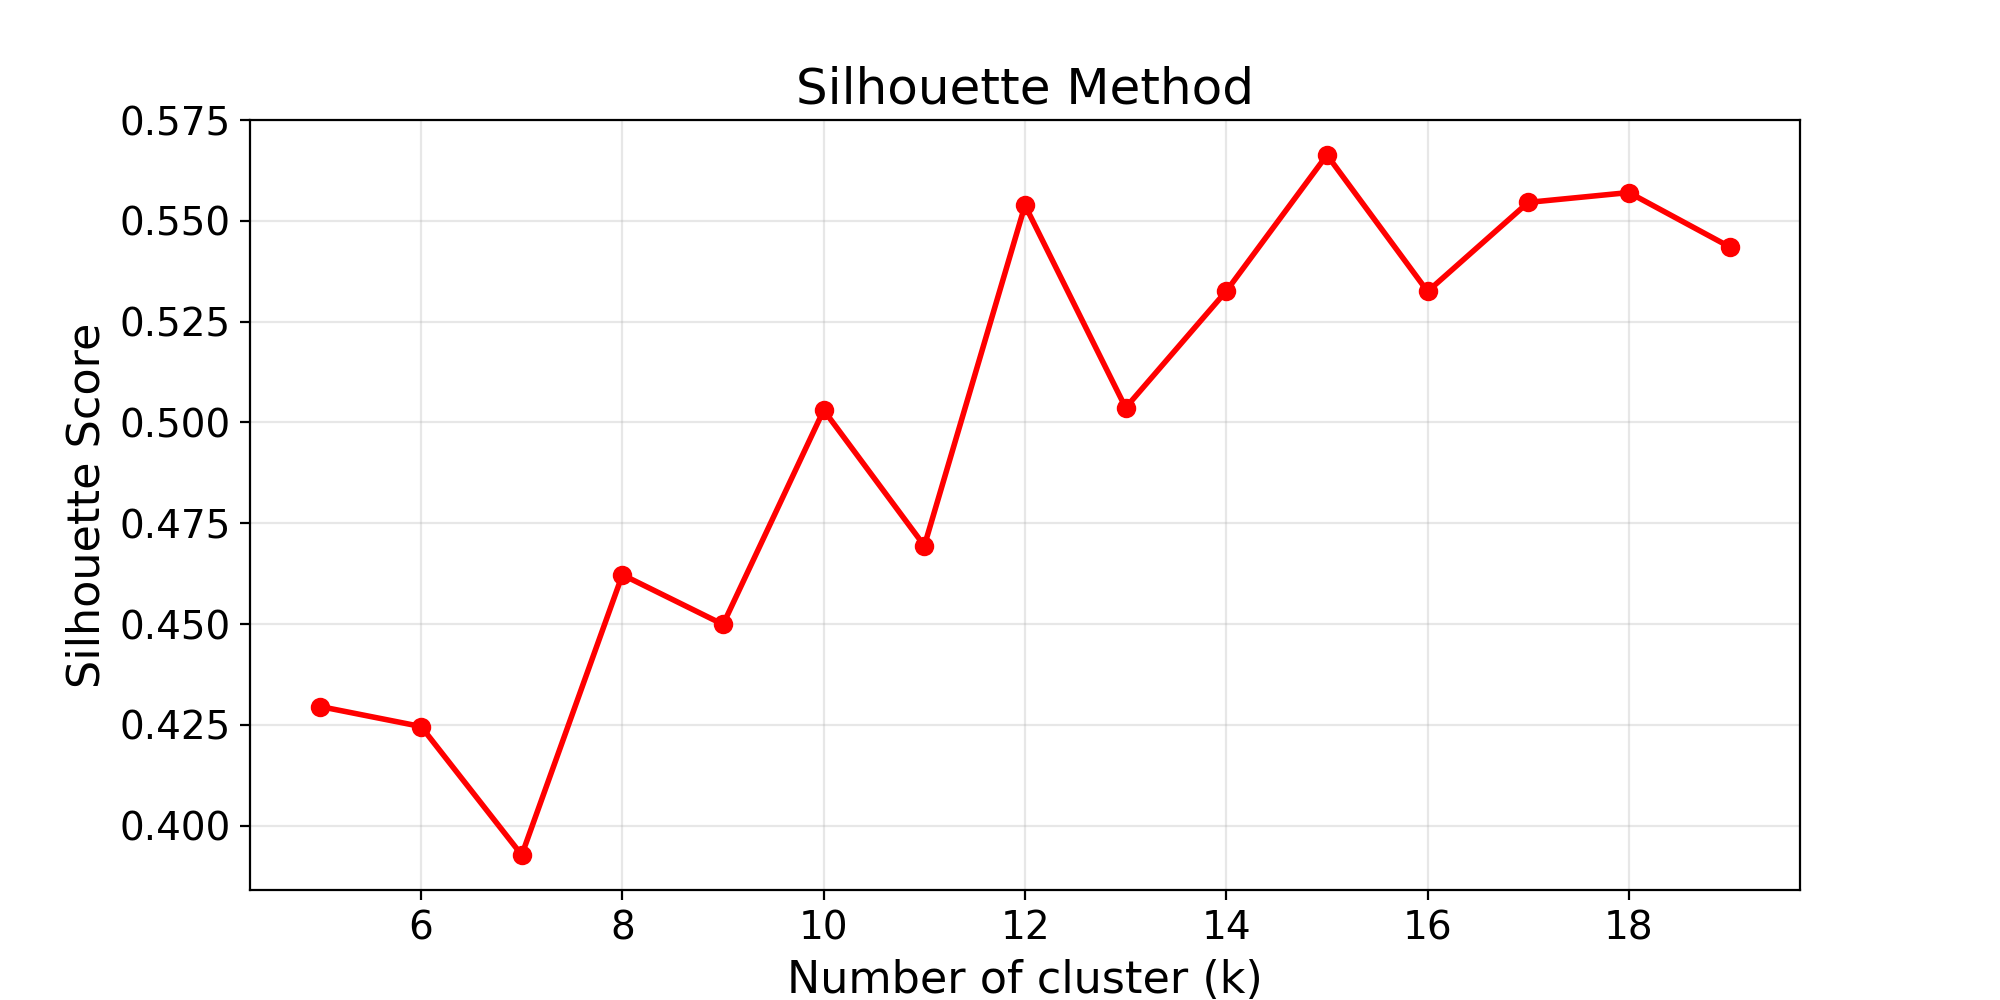
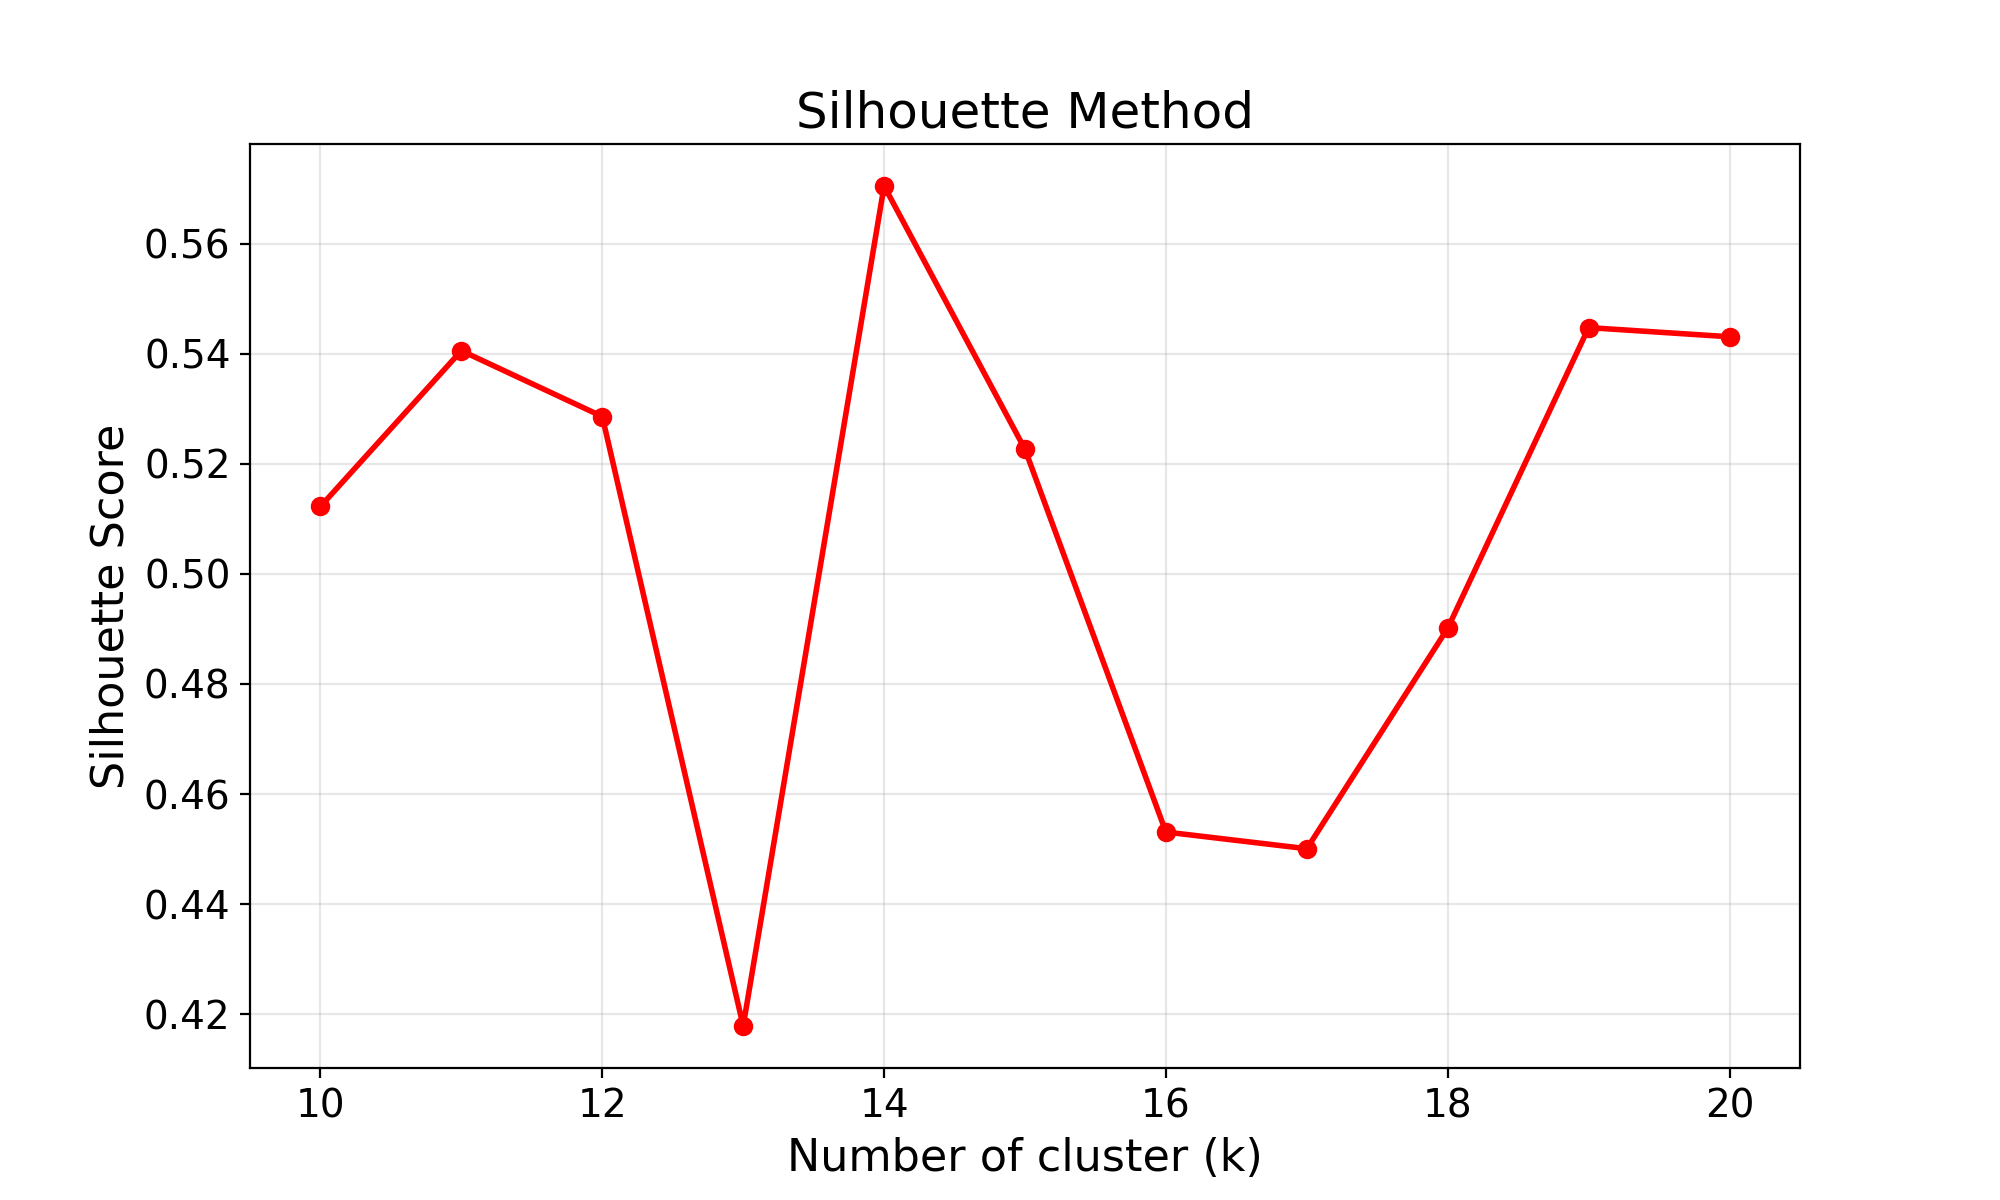
c

diff --git a/exercise4/ex4.py b/exercise4/ex4.py
@@ -35,7 +35,7 @@ def update_means(data, clusters, k):
     return means
 
 def kmeans(data, k, max_iter=100):
-    """Algorythm k-means"""
+    """Algorithm k-means"""
     means = initialize_means(data, k)
     tv_history = []
     
@@ -88,8 +88,9 @@ data = np.loadtxt('s2.txt')
 print(f"{len(data)} points uploaded\n")
 
 # 1. ELBOW METHOD
+
 print("Elbow method...")
-k_range = range(5, 20)
+k_range = range(10, 21)
 tv_values = []
 
 for k in k_range:
@@ -97,7 +98,7 @@ for k in k_range:
     tv_values.append(final_tv)
     print(f"  k={k}: TV={final_tv:.0f}")
 
-plt.figure(figsize=(10, 5))
+plt.figure(figsize=(10, 6))
 plt.plot(k_range, tv_values, 'bo-', linewidth=2)
 plt.xlabel('Number cluster (k)', fontsize=16)
 plt.ylabel('Total Variation', fontsize=16)
@@ -117,7 +118,7 @@ for k in k_range:
     silhouette_scores.append(score)
     print(f"  k={k}: Score={score:.3f}")
 
-plt.figure(figsize=(10, 5))
+plt.figure(figsize=(10, 6))
 plt.plot(k_range, silhouette_scores, 'ro-', linewidth=2)
 plt.xlabel('Number of cluster (k)', fontsize=16)
 plt.ylabel('Silhouette Score', fontsize=16)
@@ -129,6 +130,7 @@ print("saved: silhouette_method.png\n")
 
 optimal_k = k_range[np.argmax(silhouette_scores)]
 print(f"best k (Silhouette): {optimal_k}\n")
+
 
 # 3. CLUSTERING k=15
 print(" Clustering with k=15...")
@@ -151,7 +153,7 @@ print(f"Bigger cluster: {max(cluster_sizes)} points")
 
 
 # 5. GRAPHIC
-plt.figure(figsize=(12, 10))
+plt.figure(figsize=(10, 6))
 colors = plt.cm.rainbow(np.linspace(0, 1, 15))
 
 for c in range(15):

diff --git a/exercise4/plot.py b/exercise4/plot.py
@@ -1,0 +1,19 @@
+import numpy as np
+import matplotlib.pyplot as plt
+
+data = np.loadtxt('s2.txt')
+
+plt.figure(figsize=(10, 6))
+
+
+
+plt.scatter(data[:, 0], data[:, 1], c='black', marker='.')
+
+plt.xlabel('X', fontsize=16)
+plt.ylabel('Y', fontsize=16)
+plt.title(f'Data Set', fontsize=18)
+plt.grid(True, alpha=0.3)
+plt.tick_params(axis='both', which='major', labelsize=14)
+plt.tight_layout()
+plt.savefig('plot.png', dpi=200)
+print("saved:plot.png")
